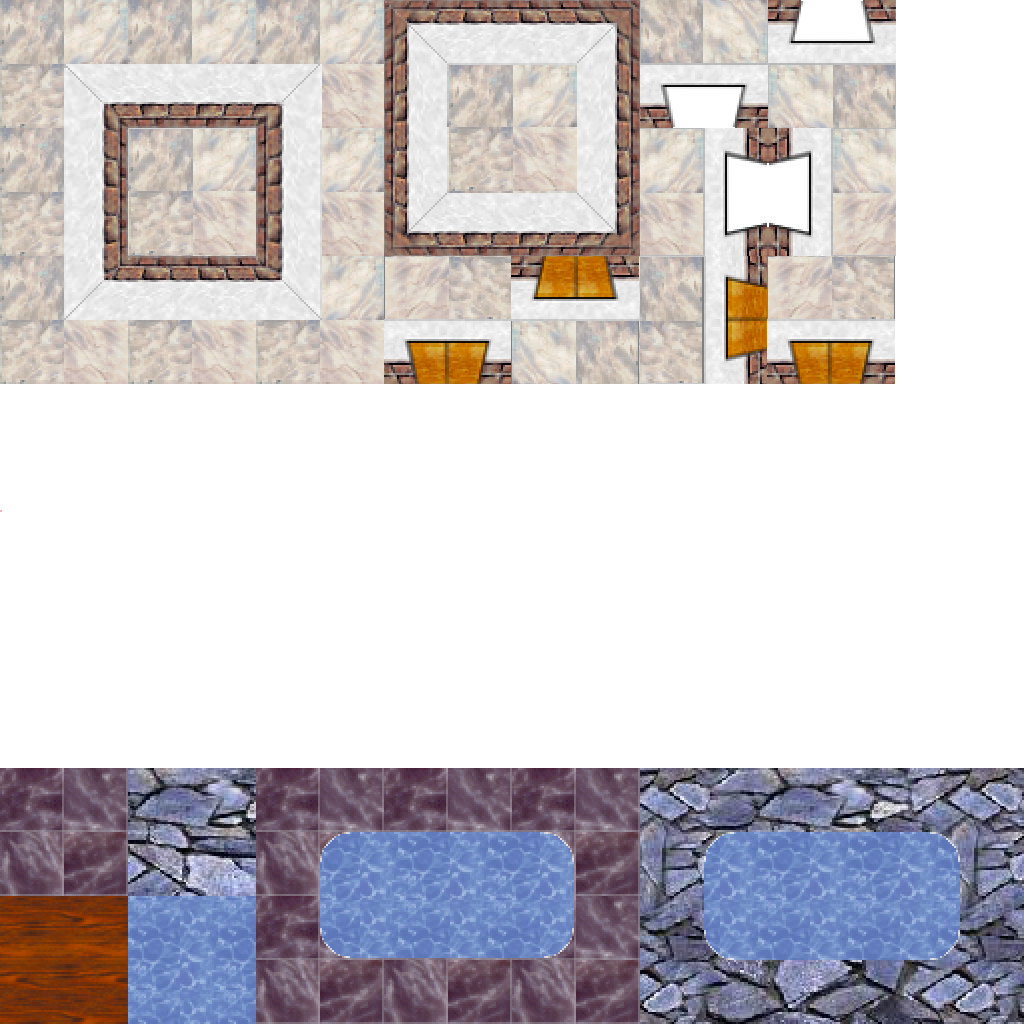
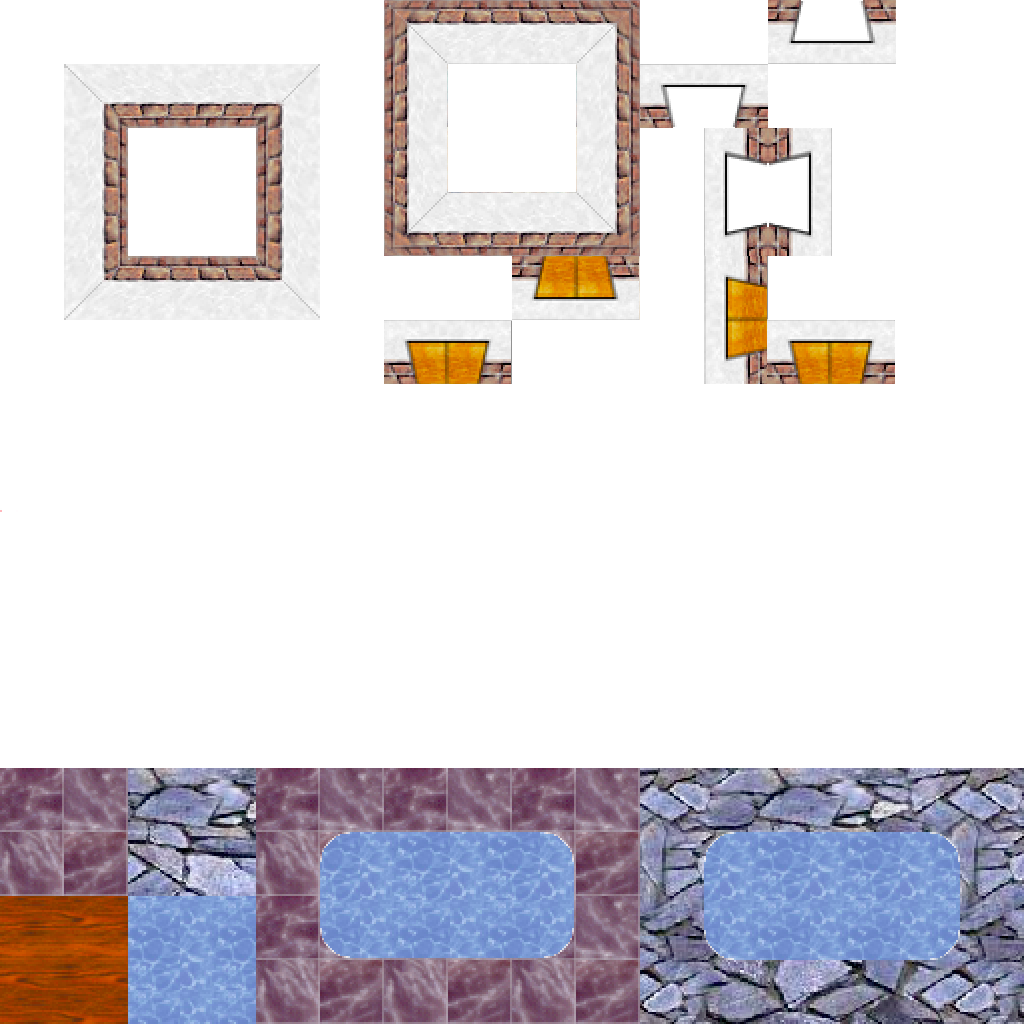
init

diff --git a/public/app/AppContext.js b/public/app/AppContext.js
@@ -208,8 +208,8 @@ var AppContext = exports.AppContext = function () {
         //var deltaW = obj.width * 0.5;
         //var deltaH = obj.height * 0.5;
         //var delta = 4;
-        var deltaW = 0;
-        var deltaH = 0;
+        var deltaW = 4;
+        var deltaH = 4;
         var delta = 0;
 
 
@@ -323,18 +323,22 @@ var AppContext = exports.AppContext = function () {
         for (var i = 0; i < _this.blockMap[0].length; i++) {
             for (var j = 0; j < _this.blockMap.length; j++) {
                 //place grass on all tiles
-                var tileBmp1 = tileBmps["f1"].clone();
-                tileBmp1.x = i * _this.tileSize;
-                tileBmp1.y = j * _this.tileSize;
-                lastChild = _this.view.addChild(tileBmp1);
+                var block = _this.blockMap[j][i];
+                if ((block == null)
+                    || (block.substring(0, 1) != "w")) {
+                    var tileBmp1 = tileBmps["f1"].clone();
+                    tileBmp1.x = i * _this.tileSize;
+                    tileBmp1.y = j * _this.tileSize;
+                    lastChild = _this.view.addChild(tileBmp1);
+                }
             }
         }
-        _this.childIndex = _this.view.getChildIndex(lastChild);
+        _this.childIndex = _this.view.getChildIndex(lastChild) + 1;
 
         for (var i = 0; i < _this.blockMap[0].length; i++) {
             for (var j = 0; j < _this.blockMap.length; j++) {
                 var block = _this.blockMap[j][i];
-                if (block) {
+                if (block && (block != "w1")) {
                     var tileBmp2 = tileBmps[block].clone();
                     tileBmp2.x = i * _this.tileSize;
                     tileBmp2.y = j * _this.tileSize;

diff --git a/public/app/MapGenerator.js b/public/app/MapGenerator.js
@@ -12,8 +12,8 @@ var MapGenerator = exports.MapGenerator = {
         var result = [];
         var areaWidth = 7;
         var areaHeight = 7;
-        var areaXSize = 2 + (Math.round(Math.random() * 2));
-        var areaYSize = 2 + (Math.round(Math.random() * 1));
+        var areaXSize = 4;
+        var areaYSize = 3;
 
         var mapWidth = areaWidth * areaXSize;
         var mapHeight = areaHeight * areaYSize;
@@ -373,16 +373,15 @@ var MapGenerator = exports.MapGenerator = {
             for (var x3 = 0; x3 < areaXSize; x3++) {
                 var area = areaList[y3][x3];
                 if (area["isRoom"] == true) {
-                    var rootDice = 3;
-                    var conS = (rootDice & 1 > 0);
+                    var rootDice = Math.ceil(Math.random() * 3);
+                    var conS = (rootDice & 1);
                     if (conS && (y3 + 1 < areaYSize)) {
                         connectNorthSouth(area, areaList[y3 + 1][x3]);
                     }
-                    var conE = (rootDice & 2 > 0);
+                    var conE = (rootDice & 2);
                     if (conE && (x3 + 1 < areaXSize)) {
                         connectEastWest(area, areaList[y3][x3 + 1]);
                     }
-
                 }
             }
         }
